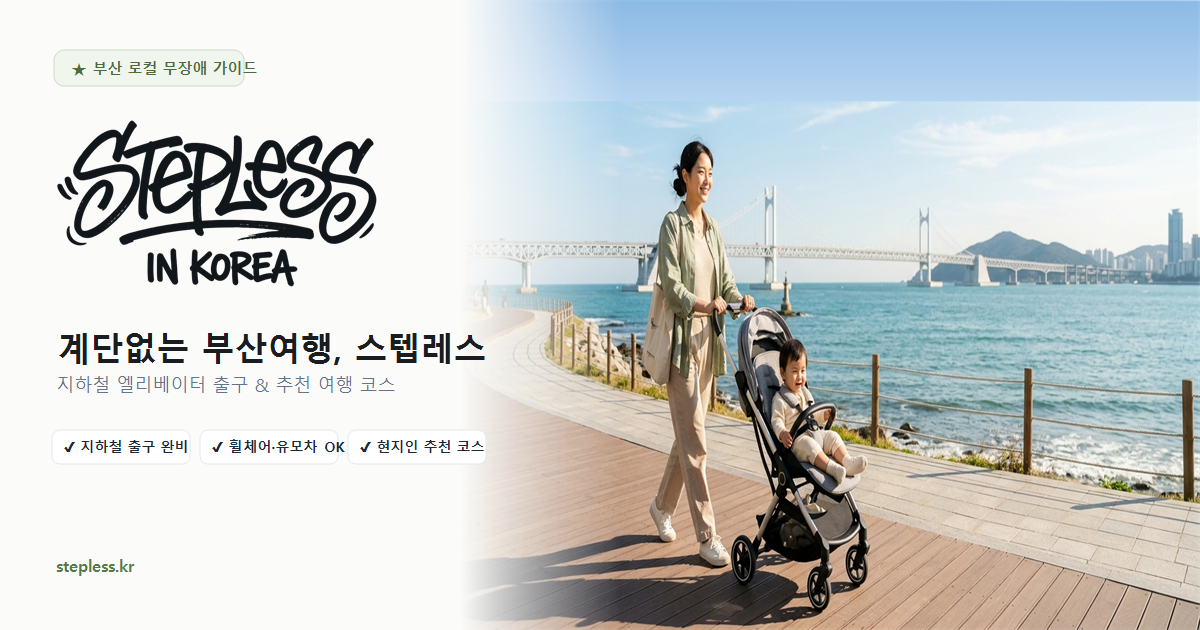
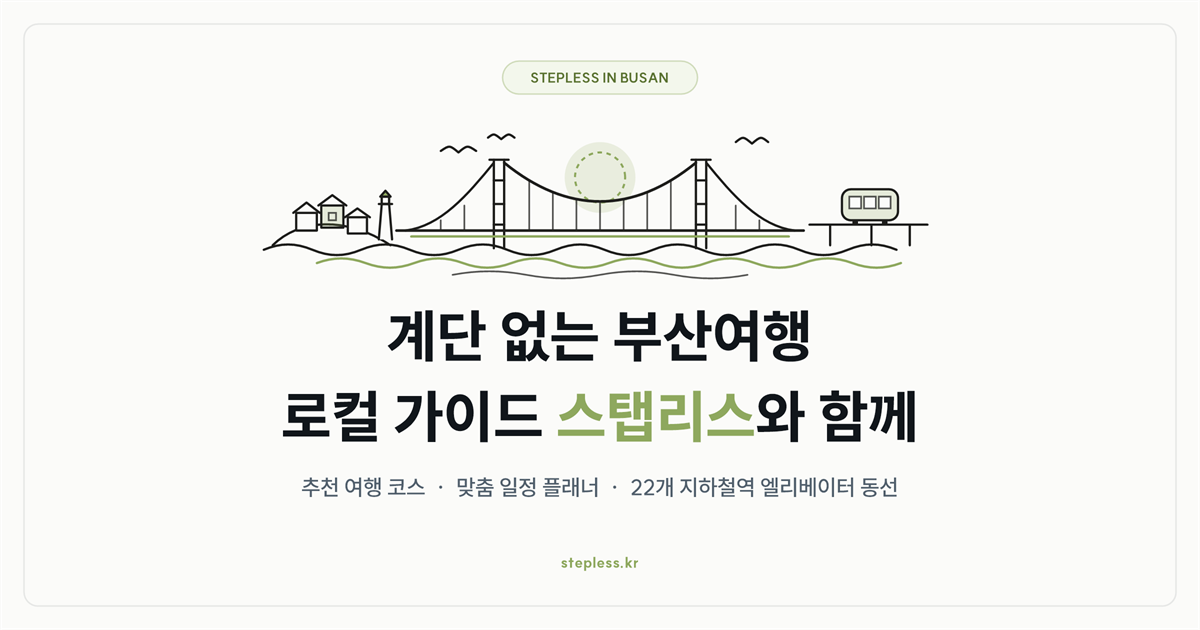
style(og): update social share thumbnail (og-image.png) to Editorial Minimal Option A

diff --git a/index.html b/index.html
@@ -120,22 +120,22 @@
 
     <!-- Open Graph Metadata (카카오톡, 네이버, 페이스북, 인스타그램, 레딧 등 글로벌 공유 최적화) -->
     <meta property="og:type" content="website" />
-    <meta property="og:site_name" content="스텝리스 Stepless in Busan" />
+    <meta property="og:site_name" content="스탭리스 Stepless in Busan" />
     <meta property="og:locale" content="ko_KR" />
     <meta property="og:locale:alternate" content="en_US" />
     <meta property="og:url" content="https://stepless.kr/" />
-    <meta property="og:title" content="계단없는 부산여행 스텝리스 | Busan Trip Plan, Itinerary &amp; Step-Free Subway Guide" />
+    <meta property="og:title" content="계단 없는 부산여행 스탭리스 | Busan Trip Plan, Itinerary &amp; Step-Free Subway Guide" />
     <meta property="og:description" content="부산 일정별·테마별 추천 여행 코스와 맞춤 루트 플래너, 주요 22개 지하철역 엘리베이터·무장애 출구 정보를 한눈에 확인하세요. Plan your ultimate step-free Busan trip and itinerary." />
-    <meta property="og:image" content="https://stepless.kr/og-image.png" />
+    <meta property="og:image" content="https://stepless.kr/og-image.png?v=2" />
     <meta property="og:image:width" content="1200" />
     <meta property="og:image:height" content="630" />
-    <meta property="og:image:alt" content="계단없는 부산여행, 스텝리스 (STEPLESS IN BUSAN - Busan Trip Plan &amp; Step-Free Travel Guide)" />
+    <meta property="og:image:alt" content="계단 없는 부산여행, 로컬 가이드 스탭리스와 함께 (STEPLESS IN BUSAN)" />
 
     <!-- Twitter / X Cards -->
     <meta name="twitter:card" content="summary_large_image" />
-    <meta name="twitter:title" content="계단없는 부산여행 스텝리스 | Busan Trip Plan, Itinerary &amp; Step-Free Subway Guide" />
+    <meta name="twitter:title" content="계단 없는 부산여행 스탭리스 | Busan Trip Plan, Itinerary &amp; Step-Free Subway Guide" />
     <meta name="twitter:description" content="부산 일정별·테마별 추천 여행 코스와 맞춤 루트 플래너, 주요 22개 지하철역 엘리베이터·무장애 출구 정보를 한눈에 확인하세요. Plan your ultimate step-free Busan trip." />
-    <meta name="twitter:image" content="https://stepless.kr/og-image.png" />
+    <meta name="twitter:image" content="https://stepless.kr/og-image.png?v=2" />
 
     <!-- Schema.org 구조화 데이터 (JSON-LD) - 구글 및 포털 리치 검색 & AI 검색(GEO) 지식그래프 최적화 -->
     <script type="application/ld+json">
